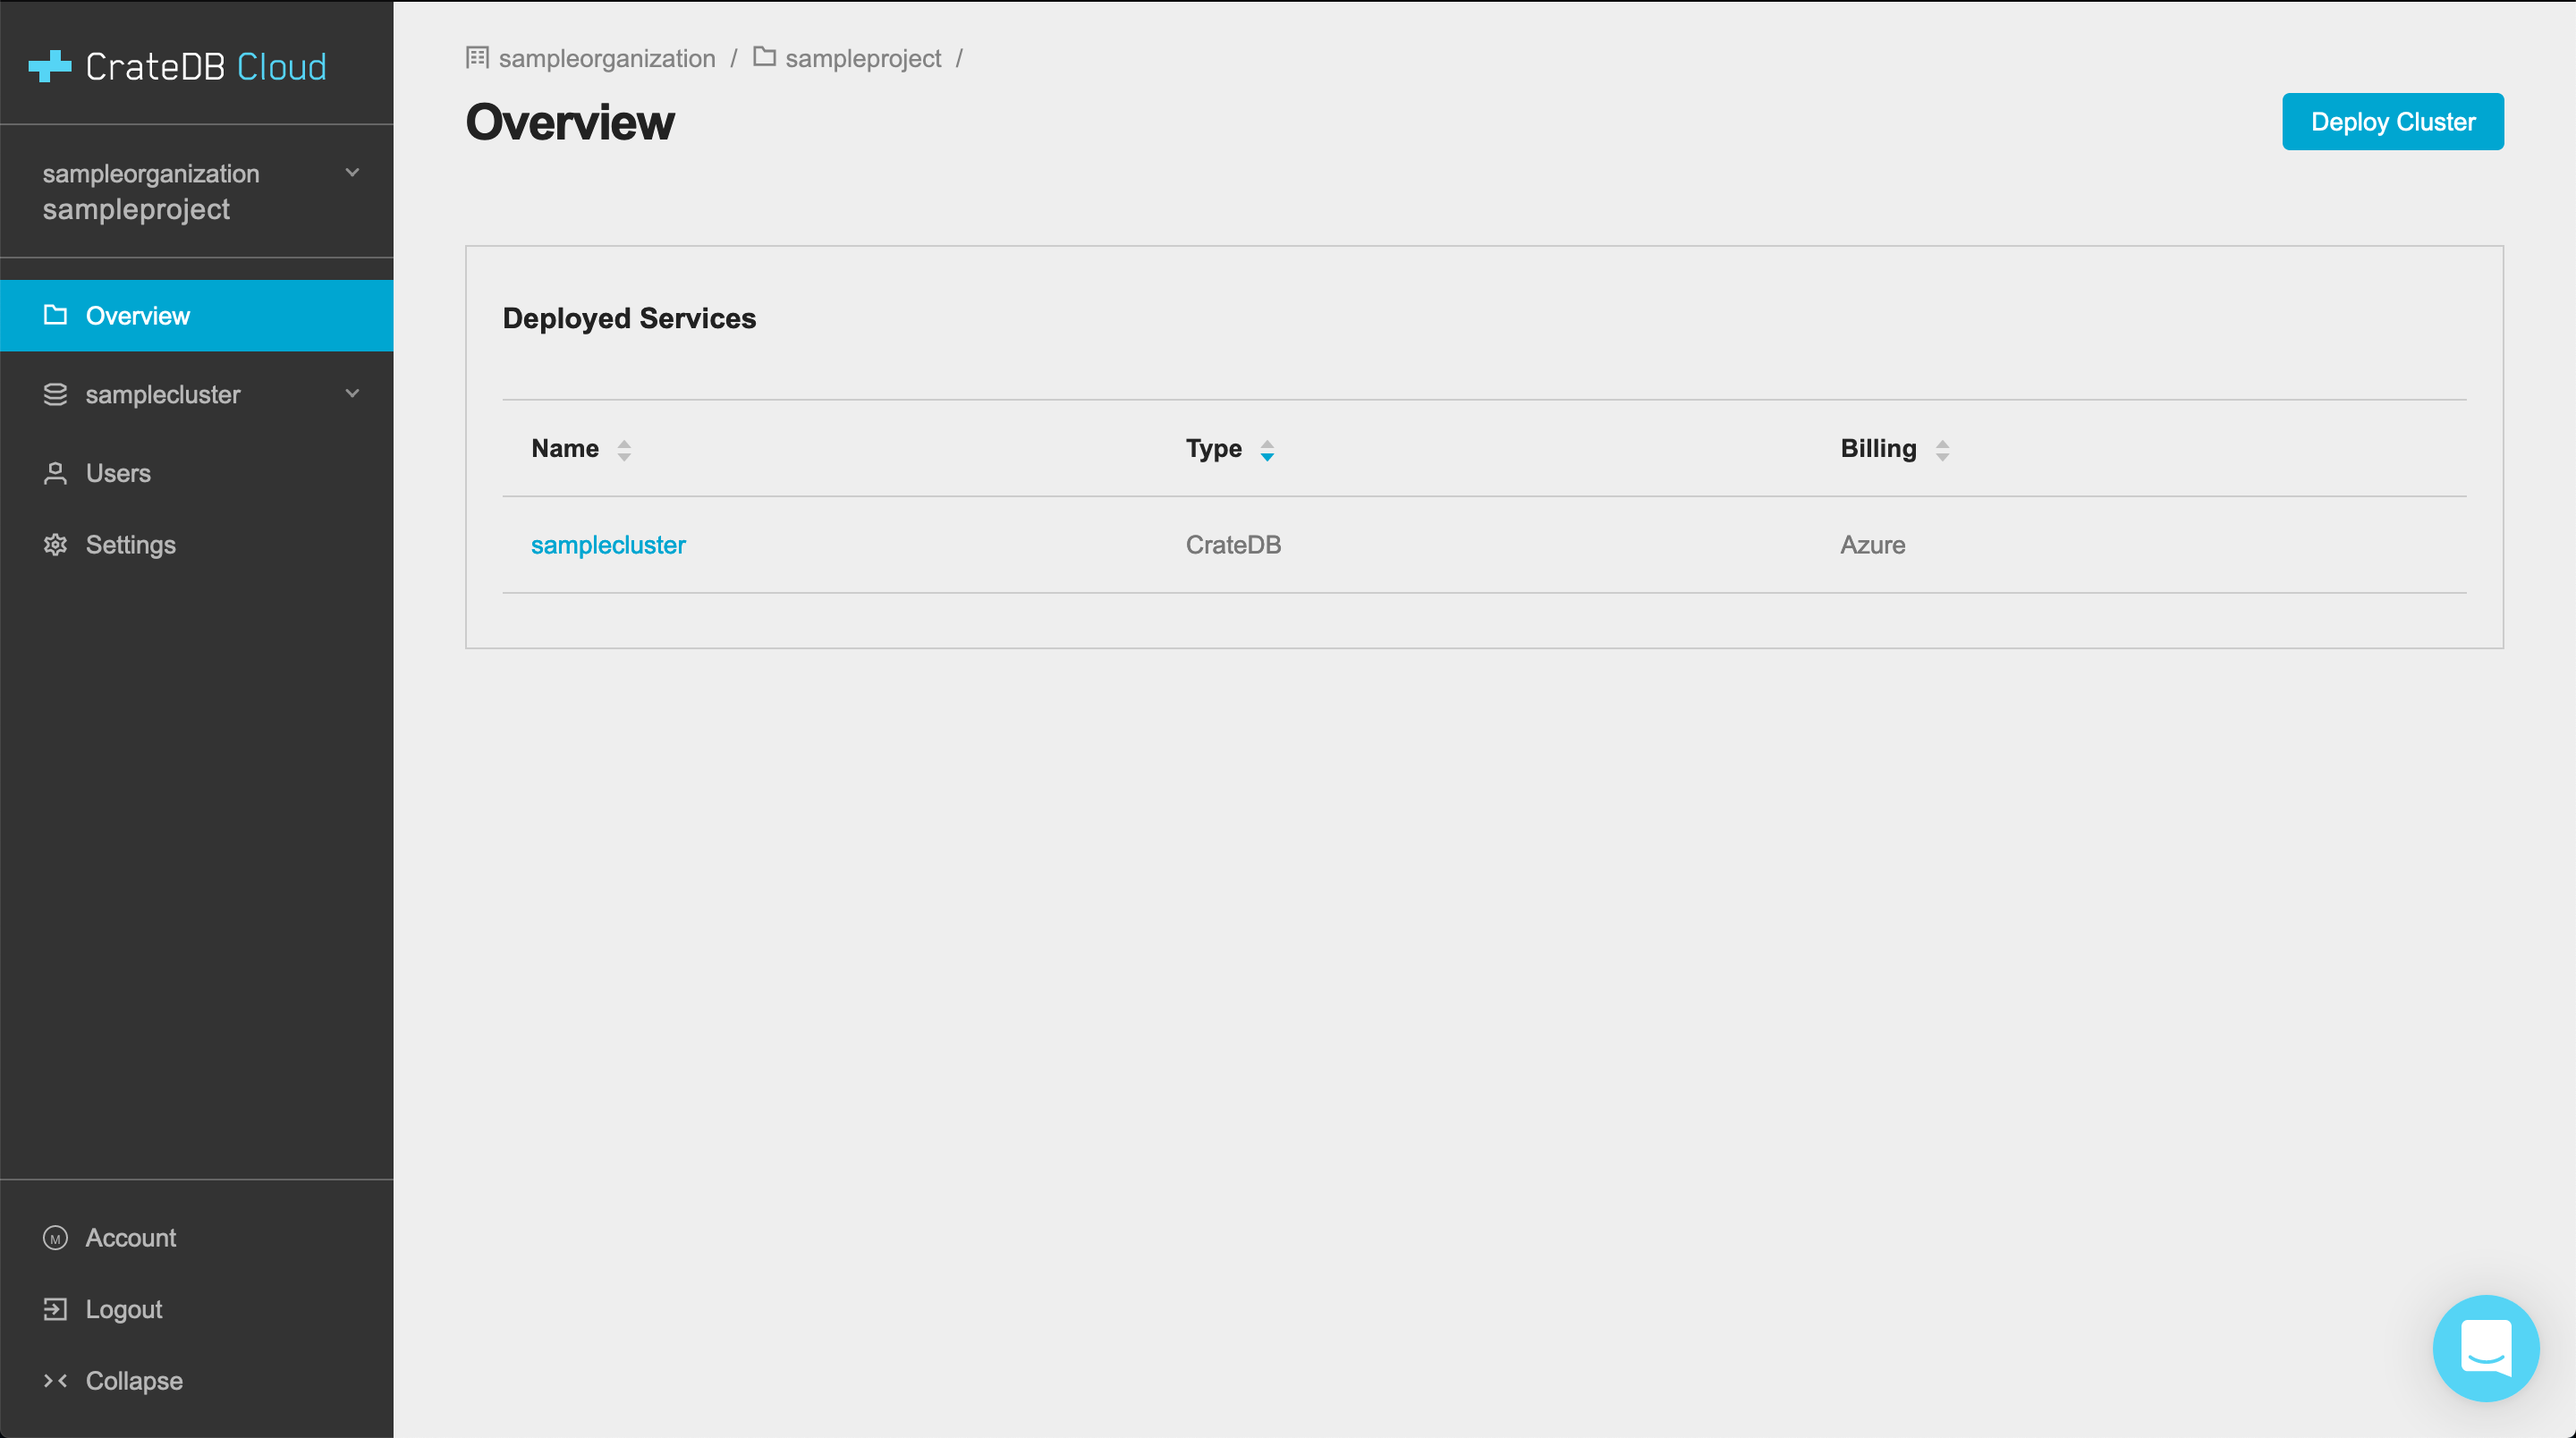
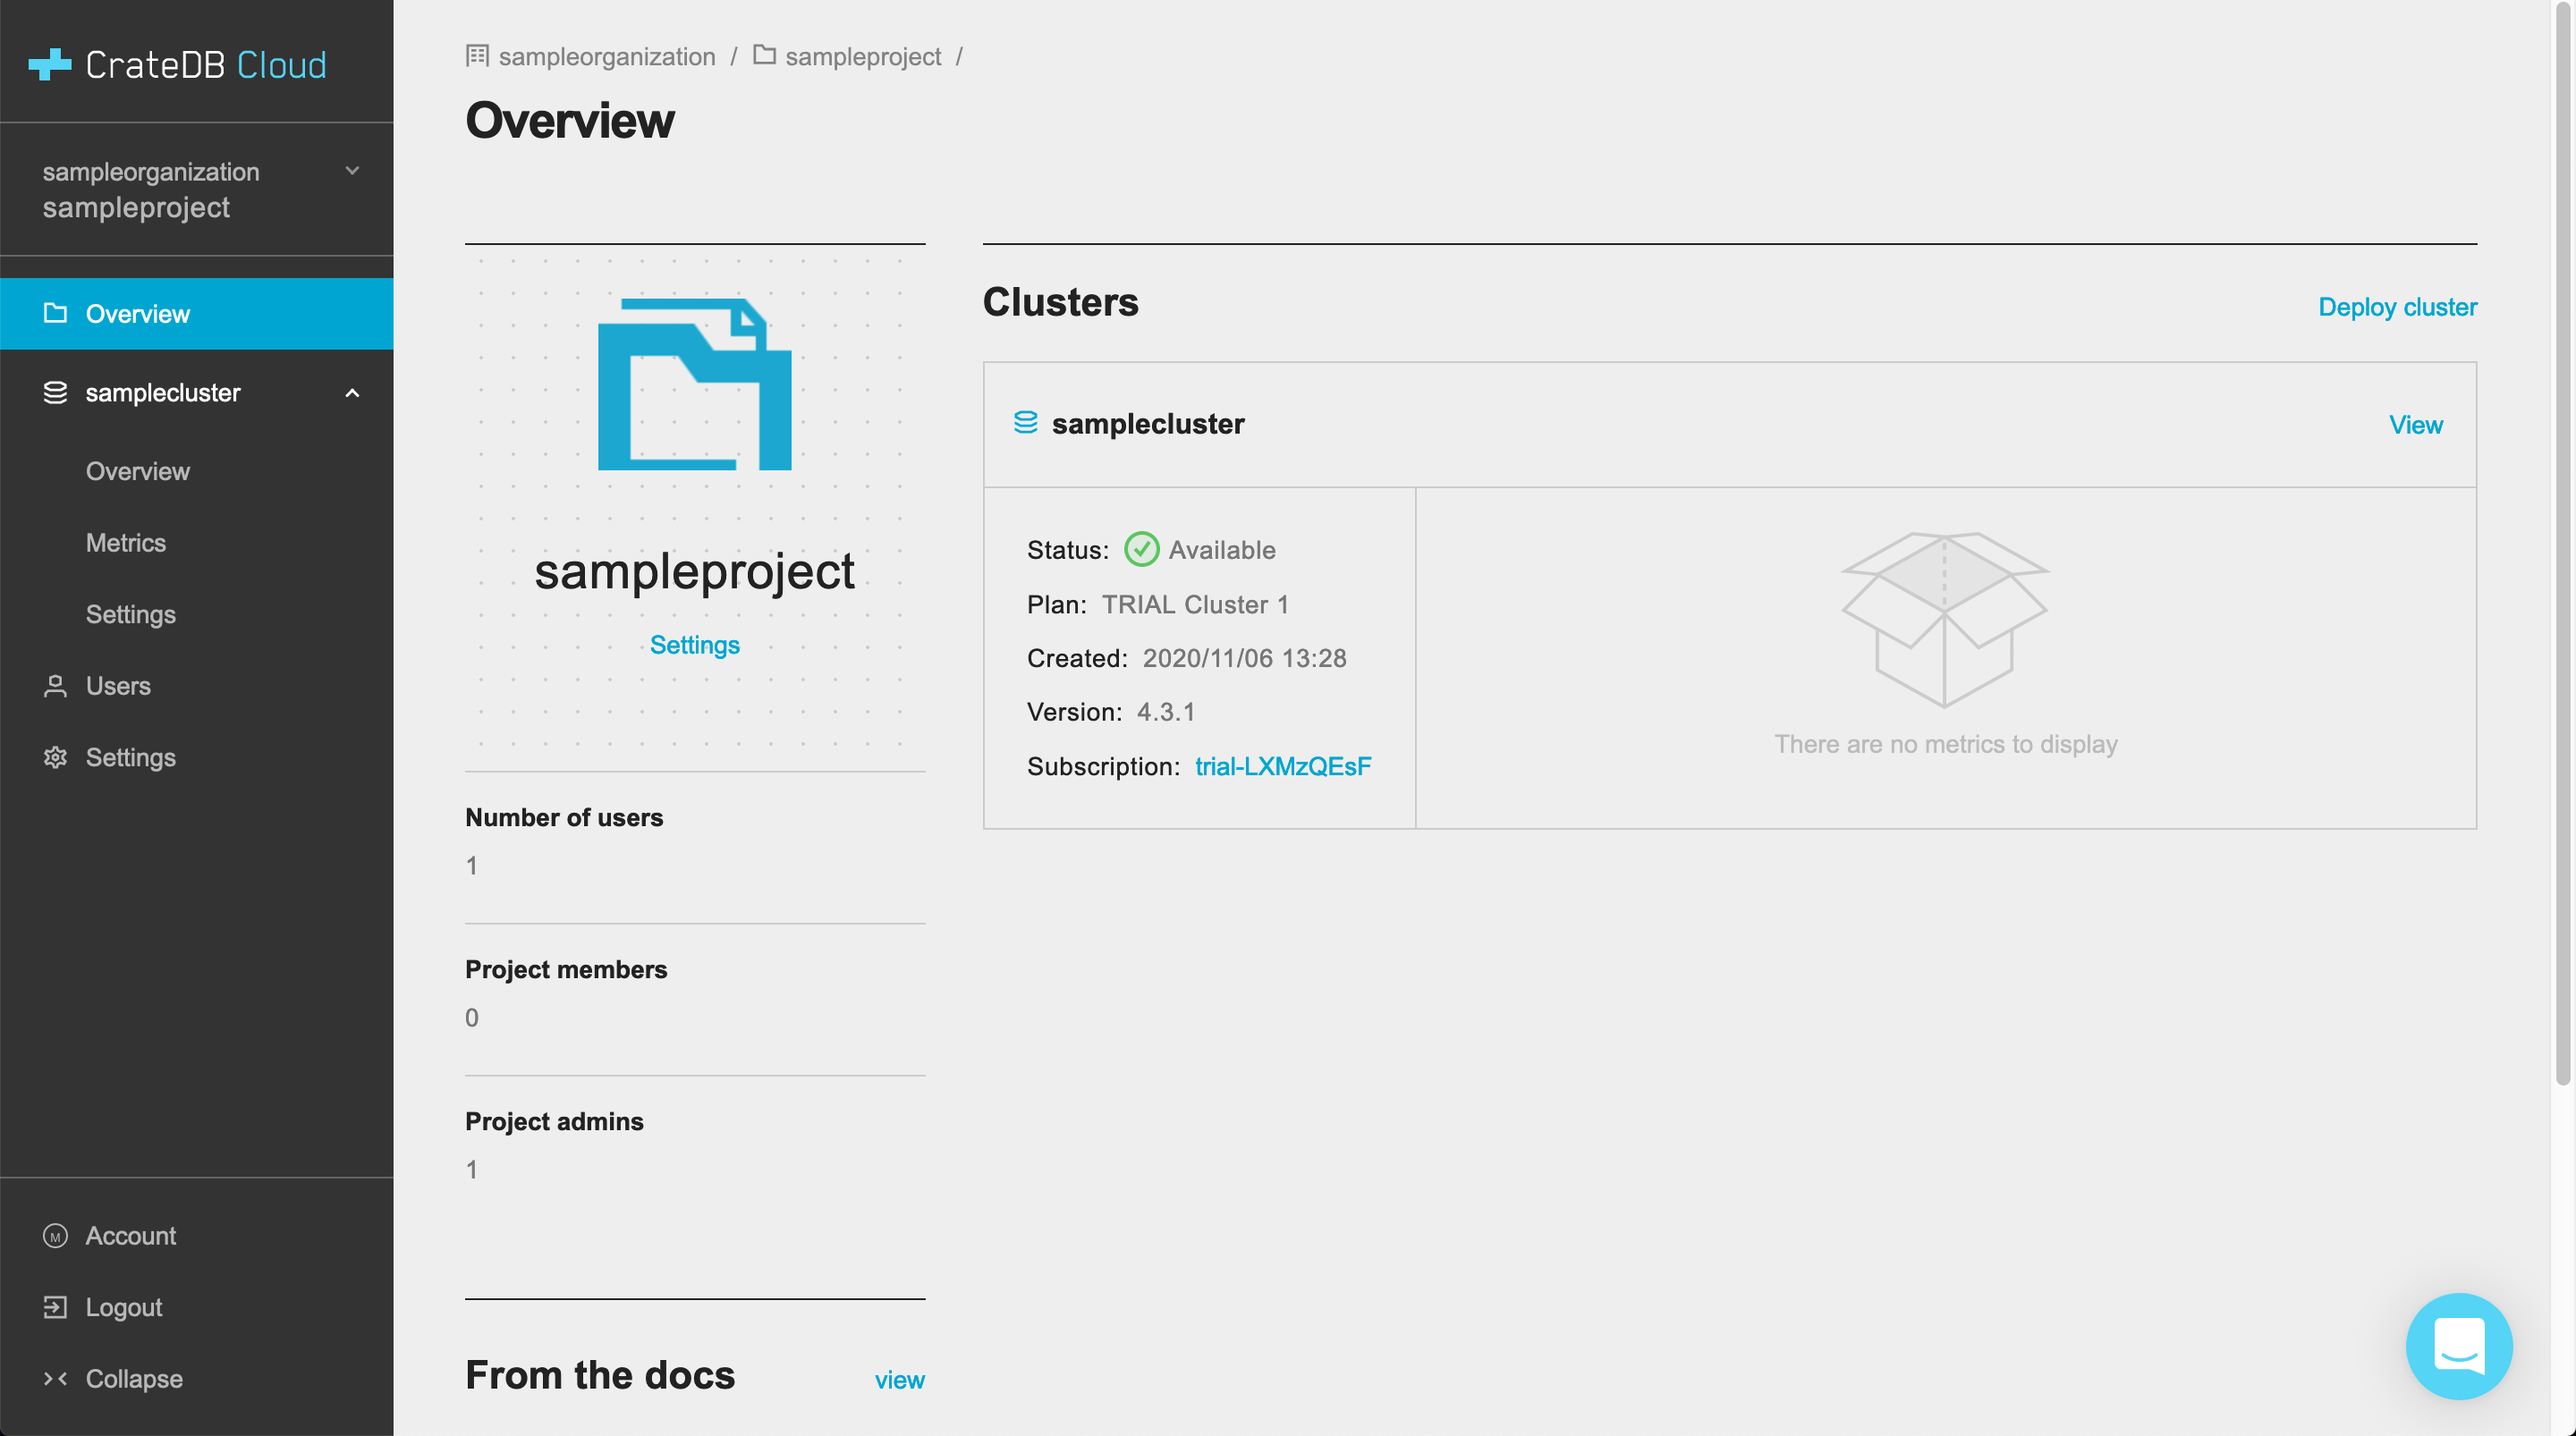
Refresh: Update console overview page to reflect revamp

diff --git a/docs/overview.rst b/docs/overview.rst
@@ -28,17 +28,17 @@ You must access the CrateDB Cloud Console by region.
 
 Here is a list of all currently available regions for CrateDB Cloud:
 
-+-------------------+-------------------------------------+
-| Region            | URL                                 |
-+===================+=====================================+
-| AWS West Europe   | `eks1.eu-west-1.aws.cratedb.cloud`_ |
-+-------------------+-------------------------------------+
-| Azure East-US2    | `eastus2.azure.cratedb.cloud`_      |
-+-------------------+-------------------------------------+
-| Azure West Europe | `westeurope.azure.cratedb.cloud`_   |
-+-------------------+-------------------------------------+
-| Bregenz           | `bregenz.a1.cratedb.cloud`_         |
-+-------------------+-------------------------------------+
++-------------------+----------------------------------------+
+| Region            | URL                                    |
++===================+========================================+
+| AWS West Europe   | `eks1.eu-west-1.aws.cratedb.cloud`_    |
++-------------------+----------------------------------------+
+| Azure East-US2    | `aks1.eastus2.azure.cratedb.cloud`_    |
++-------------------+----------------------------------------+
+| Azure West Europe | `aks1.westeurope.azure.cratedb.cloud`_ |
++-------------------+----------------------------------------+
+| Bregenz           | `bregenz.a1.cratedb.cloud`_            |
++-------------------+----------------------------------------+
 
 Azure East-US2 and Azure West-Europe are managed by |Microsoft Azure|. The
 Bregenz region is managed by Crate.io and is located in Austria. The AWS region
@@ -68,10 +68,24 @@ your organization overview will look something like this:
 
 .. image:: _assets/img/organization-overview.png
 
-The Organization screen consists of three tabs: *Settings*, *Users*, and the
-*Audit Log*. By default, it shows the Settings tab, which displays the
-organization name and ID and the email notification settings. You can access
-the other tabs by clicking their respective names at the top.
+The Organization screen consists of four tabs: *Subscriptions*, *Settings*,
+*Users*, and the *Audit Log*. By default it shows the Subscriptions tab, which
+displays two things. On the left, it shows the possible cloud providers and a
+link for creating a subscription with either. On the right, you see your
+current subscription (if any) with details: the status of the subscription, the
+subscription ID, the subscription cloud provider, the subscription type, and
+finally, any clusters deployed within the subscription with their respective
+subscription plans. You can access the other tabs by clicking their respective
+names at the top.
+
+
+Organization Settings
+---------------------
+
+The Settings tab shows you naming information (name, ID) and notification
+settings for your organization.
+
+.. image:: _assets/img/organization-settings.png
 
 By clicking the *Edit* button next to the organization, you can rename it. Here
 you can also set the email address for notifications and indicate whether you
@@ -123,10 +137,10 @@ of deployment.
 
 .. image:: _assets/img/projects.png
 
-The projects are selected by region, so to see projects deployed
-in other regions than the default, use the dropdown menu at the top left. You
-can also create a new project for the organization in the selected region by
-clicking the *Create project* button in the top right.
+The projects are selected by region. By default, the region dropdown menu is
+set to 'All'. To see projects deployed in specific regions, select that region
+from the menu. You can also create a new project for the organization in the
+selected region by clicking the *Create project* button in the top right.
 
 The cog icon next to each project takes you to the Project Settings page, in
 the menu simply called Settings, as :ref:`described further below
@@ -141,9 +155,10 @@ the main Projects page.
     line. By design, all menu items below the bar refer to the currently
     selected project, which is visible at the top left. The next sections of
     this documentation are therefore project specific and here referred to as
-    "Project Overview", "Project Settings" etc. For elegance of design,
-    however, the menu bar simply says "Overview", "Settings", and so forth.
-    These each refer to the project you selected on the Projects page.
+    "Project Overview", "Project Settings", etc. For elegance of design,
+    however, the menu bar simply says "Overview", "Settings", and so forth,
+    omitting the 'Project' referent. Nonetheless, these each still refer to the
+    project you selected on the Projects page.
 
 
 .. _overview-projects-overview:
@@ -151,15 +166,25 @@ the main Projects page.
 Project Overview
 ----------------
 
-The Project Overview page, below the divider line, shows you the services
-deployed in the currently selected project. The overview panel shows the name,
-type, and SaaS subscription for billing purposes associated with each service.
+The Project Overview page provides information about the selected project.
+Underneath the project name and icon there is a column on the left hand,
+showing the total number of users in the project as well as the share of
+members and admins of that total.
 
 .. image:: _assets/img/project-overview.png
 
-Clicking on a cluster service takes you to the Cluster Overview page, which
-bears the name the organization or project admin chose for the cluster. For
-more details on that page, see below.
+On the right, you see an overview of all clusters deployed within the project.
+This shows their status, the subscription plan and tier, the date and timestamp
+of their creation, the version of CrateDB they are running, and finally the
+subscription name associated with the cluster deployment. Clicking on this
+subscription name takes you to the :ref:`Subscriptions tab of the Organization
+page<overview-org-overview>`.
+
+Finally, you can also deploy a cluster from within the Project Overview, by
+clicking the *Deploy cluster* link at the top right. This also takes you back
+to the :ref:`Subscriptions tab of the Organization page
+<overview-org-overview>`, from where clusters can be deployed within a given
+subscription or a new subscription chosen.
 
 
 .. _overview-cluster-overview:
@@ -168,27 +193,25 @@ Cluster Overview
 ----------------
 
 The Cluster Overview page gives a broad range of relevant data for the cluster
-selected.
+selected. It also displays metrics for the cluster.
 
 .. image:: _assets/img/cluster-overview.png
 
-It gives you the following information:
+Info
+~~~~
 
-* **Cluster name**: The cluster name.
-
-.. NOTE::
-
-    The cluster name, once set, cannot be changed. It makes up part of the
-    unique cluster URL and is therefore permanent until the cluster is deleted.
+The column on the left hand side, under the cluster logo and name, displays
+information about the cluster. This includes:
 
 * **Cluster ID**: The unique ID of the cluster.
 
-* **Cluster URL**: The URL through which the cluster can be reached. The info
-  icon gives relevant information on ports and access methods. By clicking on
-  the URL you will be redirected to the `CrateDB Admin UI`_ for the cluster at
-  that URL. For more information on the protocols used to connect to the
-  respective ports, refer to the CrateDB documentation on `HTTP`_ and the
-  `PostgreSQL wire protocol`_ as well as the documentation of your client.
+* **Status**: The status of the cluster. This can be 'available', 'not
+  available', or 'setting up cluster'.
+
+* **Access cluster**: The *open cluster administration* button connects you to
+  the `CrateDB Admin UI`_ for the cluster at its unique URL. Alternatively,
+  you can follow the link *how to connect* to the cluster to find various
+  helpful code snippets for connecting to the cluster via a terminal or client.
 
 .. NOTE::
 
@@ -198,36 +221,43 @@ It gives you the following information:
     stateful connections (e.g., JDBC) must be configured to send keep-alive
     heartbeat queries.
 
-* **Cluster channel**: This indicates what build of CrateDB the cluster is
-  running. The options are stable, testing, or nightly.
+* **Cluster demo data**: Follow this link to quickly set up demo data for your
+  cluster. This will demonstrate in an easy way how it can be used in practice.
 
 * **Version**: This indicates the version number of CrateDB the cluster is
   running.
 
-* **Created**: The timestamp of the deployment of the cluster.
+* **Date Created**: The day of the original deployment of the cluster.
 
-* **Tier**: This shows what tier of the subscription plan the cluster is
+* **DB Username**: This shows once more the username associated with the
+  cluster. You chose this username while setting up the cluster originally.
+
+* **Plan**: This shows what tier of which subscription plan the cluster is
   running on. For more information on our plans, see the documentation on
   `subscription plans`_.
 
-* **RAM/Heap Size**: The currently allocated memory for the cluster.
-
-* **Number of cores**: The number of (or fractional share of) CPU cores
-  dedicated to the cluster.
-
-* **Number of nodes**: The number of nodes the cluster consists of.
-
-* **Storage**: The HD storage capacity allocated to the cluster, for example
-  for backups.
-
-* **Region**: The region the cluster is deployed in.
-
-* **DB Username**: Your username used for login purposes to connect to the
-  cluster. This is set in the configuration during the cluster deployment
-  process.
+* **Subscription**: The name of the subscription itself, with a link to the
+  :ref:`Subscriptions tab of the Organization page<overview-org-overview>`.
 
 For more information on the CrateDB concepts used here, refer to the `CrateDB
-architecture documentation`_.
+architecture documentation`_ or the :ref:`glossary<glossary>`.
+
+Metrics
+~~~~~~~
+
+On the rest of the page you will find various cluster metrics. In the center
+you will see an overview of general usage in the past week, including storage,
+memory, and CPU usage. A bar at the top indicates the 85% mark: if your CPU or
+storage usage is above this percentage of the cluster capacity, you should
+consider upgrading by `scaling the cluster`_.
+
+On the right you will see more immediate metrics, collected from the last hour
+of cluster operations. This includes average queries, average query response
+time, and disk, memory, and CPU usage for the last hour.
+
+The queries and query response time of the cluster can be seen in more detail
+on the Cluster Metrics page, for which see below. This page can also be
+accessed by clicking the *View metrics* link at the top right.
 
 
 .. _overview-cluster-metrics:
@@ -337,16 +367,17 @@ Cloud Console.
 .. _CrateDB Admin UI: https://crate.io/docs/clients/admin-ui/
 .. _CrateDB architecture documentation: https://crate.io/docs/crate/howtos/en/latest/architecture/shared-nothing.html
 .. _CrateDB Cloud: https://crate.io/products/cratedb-cloud/
-.. _eastus2.azure.cratedb.cloud: https://eastus2.azure.cratedb.cloud/
+.. _aks1.eastus2.azure.cratedb.cloud: https://eastus2.azure.cratedb.cloud/
 .. _eks1.eu-west-1.aws.cratedb.cloud: https://eks1.eu-west-1.aws.cratedb.cloud
 .. _glossary: https://crate.io/docs/cloud/reference/en/latest/glossary.html
 .. _HTTP: https://crate.io/docs/crate/reference/en/latest/interfaces/http.html
 .. _PostgreSQL wire protocol: https://crate.io/docs/crate/reference/en/latest/interfaces/postgres.html
+.. _scaling the cluster: https://crate.io/docs/cloud/howtos/en/latest/scale-cluster.html
 .. _signup tutorial: https://crate.io/docs/cloud/tutorials/en/latest/sign-up.html
 .. _subscription plans: https://crate.io/docs/cloud/reference/en/latest/subscription-plans.html
 .. _tutorial: https://crate.io/docs/cloud/tutorials/en/latest/getting-started/index.html
 .. _user roles: https://crate.io/docs/cloud/reference/en/latest/user-roles.html
-.. _westeurope.azure.cratedb.cloud: https://westeurope.azure.cratedb.cloud/
+.. _aks1.westeurope.azure.cratedb.cloud: https://westeurope.azure.cratedb.cloud/
 .. |Microsoft Azure| raw:: html
 
     <a href="https://azure.microsoft.com/" target="_blank">Microsoft Azure</a>
